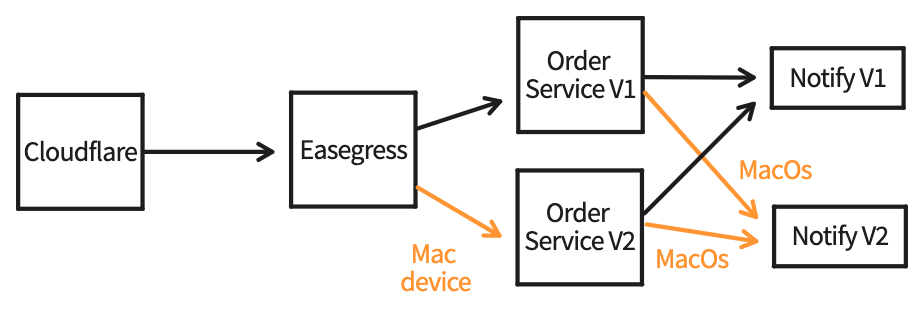
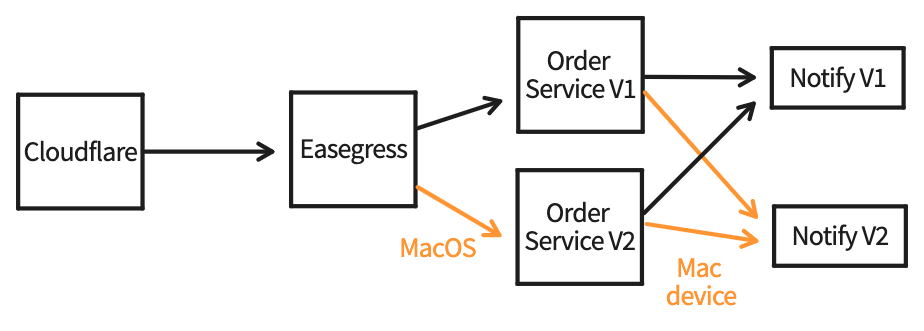
update canary cookbook.

diff --git a/doc/cookbook/canary-release.md b/doc/cookbook/canary-release.md
@@ -37,7 +37,9 @@ A [canary release](https://martinfowler.com/bliki/CanaryRelease.html) is a softw
 
 ![case 1](../imgs/canary-release-case-1.png)
 
-Suppose we run an e-Commerce service, and we recently upgraded our Order Service from version 1 to version 2. To ensure that our users have the best experience, we want to route the users who are accessing our service from Beijing to use the new Order service (version 2).  
+Suppose we run an e-Commerce service, and we recently upgraded our Order Service from version 1 to version 2. To ensure that our users have the best experience, we want to route the users who are accessing our service from Beijing to use the new Order service (version 2).
+
+Download the latest Service code from [canary-case-1](https://github.com/megaease/easegress-canary-example/tree/main/case1)
 
 **1. Traffic tagging**
 
@@ -45,45 +47,31 @@ To determine the geographic location of a user, we can leverage the `CF-IPCity` 
 
 **2. Traffic scheduling rules:**
 
-Save the following YAML code to `ecommerce-service.yaml` and make sure to replace the `servers` configuration with your own. 
+Save the following YAML code to `order-service.yaml` and make sure to replace the `servers` configuration with your own. 
 
 ```yaml
-name: ecommerce-pipeline
+name: order-pipeline
 kind: Pipeline
 flow:
-- filter: buildOrderRequest
-  namespace: order
 - filter: order-service
-  namespace: order
-- filter: buildResponse
 filters:
-- name: buildOrderRequest
-  kind: RequestBuilder
-  template: |
-    url: /order
 - name: order-service
   kind: Proxy
   pools:
   - servers:
-    - url: http://megaease.com/api/v2  # new version
-  - filter:
+    - url: http://0.0.0.0:5002  # new version
+    filter:
       headers:
         cf-ipcity: # Cloudflare geographic location header
           exact: Beijing # the traffic from Beijing should be directed to the new version
-    servers:
-    - url: http://megaease.com/api/v1 # old version
-- name: buildResponse
-  kind: ResponseBuilder
-  template: |
-    statusCode: {{.responses.order.StatusCode}}
-    body: |
-      [{{.responses.notify.Body}}]
+  - servers:
+    - url: http://0.0.0.0:5001  # old version
 ```
 
-Then create the e-Commerce pipeline with the command:
+Then create the order pipeline with the command:
 
 ```bash
-egctl object create -f ecommerce-service.yaml
+egctl object create -f order-service.yaml
 ```
 
 Save below YAML to `ecommerce-server.yaml`.
@@ -91,7 +79,7 @@ Save below YAML to `ecommerce-server.yaml`.
 ```yaml
 kind: HTTPServer
 name: ecommerce-server
-port: 8080
+port: 8888
 https: false
 keepAlive: true
 keepAliveTimeout: 75s
@@ -99,8 +87,10 @@ maxConnection: 10240
 cacheSize: 0
 rules:
   - paths:
-    - pathPrefix: /ecommerce
-      backend: ecommerce-pipeline
+    - pathPrefix: /order
+      backend: order-pipeline
+    - pathPrefix: /notify
+      backend: notify-pipeline
 ```
 
 Then create the HTTP server with command:
@@ -112,11 +102,11 @@ egctl object create -f ecommerce-server.yaml
 Send a request to e-Commerce service:
 
 ```bash
-curl http://127.0.0.1:10080/ecommerce -H "cf-ipcity: Beijing"
-[{"order_id":"5245000", "role_id":"44312", "order_status":1, "order_version": "v2"}]
+curl http://127.0.0.1:8888/order -H "cf-ipcity: Beijing"
+{"order_id":"5245000","role_id":"44312","order_status":1,"order_version":"v2"}
 
-curl http://127.0.0.1:10080/ecommerce -H "cf-ipcity: Shanghai"
-[{"order_id":"5245000", "role_id":"44312", "order_status":1, "order_version": "v1"}]
+curl http://127.0.0.1:8888/order -H "cf-ipcity: Shanghai"
+{"order_id":"5245000","role_id":"44312","order_status":1,"order_version":"v1"}
 ```
 
 ## based on user devices
@@ -124,6 +114,8 @@ curl http://127.0.0.1:10080/ecommerce -H "cf-ipcity: Shanghai"
 ![case 2](../imgs/canary-release-case-2.png)
 
 In real-world scenarios, services are usually interconnected and depend on each other to provide a seamless experience for the customer. In our case, we recently upgraded our Notify Service from version 1 to version 2. To ensure that our users have a holistic experience, we want to route users who are accessing our service from a Mac device to use the new version of our Notify Service (version 2).
+
+Download the latest Service code from [canary-case-2](https://github.com/megaease/easegress-canary-example/tree/main/case2)
 
 **1. Traffic tagging**
 
@@ -145,80 +137,73 @@ Go to the Cloudflare website configuration page and configure _Workers Routes_.
 
 **2. Traffic scheduling rules**
 
-Save the following YAML code to `ecommerce-service.yaml`, and make sure to replace the `servers` configuration with your own.
+Save the following YAML code to `order-service.yaml`, and make sure to replace the `servers` configuration with your own.
 
 ```yaml
-name: ecommerce-pipeline
+name: order-pipeline
 kind: Pipeline
 flow:
-- filter: buildOrderRequest
-  namespace: order
 - filter: order-service
-  namespace: order
-- filter: buildNotifyRequest
-  namespace: notify
-- filter: notify-service
-  namespace: notify
-- filter: buildResponse
 filters:
-- name: buildOrderRequest
-  kind: RequestBuilder
-  template: |
-    url: /order
 - name: order-service
   kind: Proxy
   pools:
   - servers:
-    - url: http://megaease.com/api/v2
-- name: buildNotifyRequest
-  kind: RequestBuilder  # use order response as notify request body
-  template: |
-    url: /notify
-    method: POST
-    body: |
-      {"order": "{{.responses.order.Body | jsonEscape}}"}
+    - url: http://0.0.0.0:5003 # order service
+```
+
+Then update the order pipeline with the command:
+
+```bash
+egctl object update -f order-service.yaml
+```
+
+Save the following YAML code to `notify-service.yaml`, and make sure to replace the `servers` configuration with your own.
+
+```yaml
+name: notify-pipeline
+kind: Pipeline
+flow:
+- filter: notify-service
+filters:
 - name: notify-service
   kind: Proxy
   pools:
   - servers:
-    - url: http://megaease.com/api/v1
-  - filter:
+    - url: http://0.0.0.0:5002  # new version
+    filter:
       headers:
-        x-ua-device: # Cloudflare's user device header
-          exact: Mac # the traffic from Mac should be directed to the new version
-    servers:
-    - url: http://megaease.com/api/v2
-- name: buildResponse
-  kind: ResponseBuilder
-  template: |
-    statusCode: {{.responses.notify.StatusCode}}
-    body: |
-      [{{.responses.notify.Body}}]
+        x-ua-device:
+          exact: Mac # the traffic from Mac device should be directed to the new version
+  - servers:
+    - url: http://0.0.0.0:5001  # old version
 ```
 
-Then update the e-Commerce pipeline with the command:
+Then create the notify pipeline with the command:
 
 ```bash
-egctl object update -f ecommerce-service.yaml
+egctl object create -f notify-service.yaml
 ```
 
 Send a request to e-Commerce service:
 
 ```bash
 curl http://127.0.0.1:10080/ecommerce -H "user-agent:Mozilla/5.0 (Linux; Android 4.4.2; GT-I9505 Build/KOT49H) AppleWebKit/537.36 (KHTML, like Gecko) Chrome/37.0.2062.117 Mobile Safari/537.36"
-[{"order_id":"5245000", "role_id":"44312", "notify_status":1, "notify_version": "v1"}]
+{"order_id":"5245000","role_id":"44312","order_status":1,"order_version":"v2","notify_status":1,"notify_version":"v1"}
 
 curl http://127.0.0.1:10080/ecommerce -H "user-agent:Mozilla/5.0 (Macintosh; Intel Mac OS X 10_15_7) AppleWebKit/537.36 (KHTML, like Gecko) Chrome/110.0.0.0 Safari/537.36"
-[{"order_id":"5245000", "role_id":"44312", "notify_status":1, "notify_version": "v2"}]
+{"order_id":"5245000","role_id":"44312","order_status":1,"order_version":"v2","notify_status":1,"notify_version":"v2"}
 ```
 
 ## based on user OS
 
 ![case 3](../imgs/canary-release-case-3.png)
 
-Suppose both the Order service and Notify service have been upgraded simultaneously. The user who is accessing our service from a Mac device should be routed to the new version of the Order service (v2), and from MacOS should be routed to the new version of the Notify service (v2).  
+Suppose both the Order service and Notify service have been upgraded simultaneously. The user who is accessing our service from a MacOS should be routed to the new version of the Order service (v2), and from Mac device should be routed to the new version of the Notify service (v2).  
 
 You may think Cloudflare's Workers is not suitable for your needs, there is another easy way to parse `User-Agent` with Easegress's WASM.
+
+Download the latest Service code from [canary-case-3](https://github.com/megaease/easegress-canary-example/tree/main/case3)
 
 **1. Traffic tagging**
 
@@ -234,81 +219,45 @@ Go to the `easegress-rust-uaparser/binary` directory and just use the `easegress
 
 **2. Traffic scheduling rules**
 
-Save the following YAML code to `ecommerce-service.yaml`, and make sure to replace the `servers` configuration and wasm file path with your own.
+Save the following YAML code to `order-service.yaml`, and make sure to replace the `servers` configuration and wasm file path with your own.
 
 ```yaml
-name: ecommerce-pipeline
+name: order-pipeline
 kind: Pipeline
 flow:
 - filter: wasm
-- filter: buildOrderRequest
-  namespace: order
 - filter: order-service
-  namespace: order
-- filter: buildNotifyRequest
-  namespace: notify
-- filter: notify-service
-  namespace: notify
-- filter: buildResponse
 filters:
 - name: wasm # parse user-agent, add `x-ua-device` and `x-ua-os` headers to the HTTP request.
   kind: WasmHost
   maxConcurrency: 2
   code: /<Path>/easegress.wasm  # easegress.wasm file path
   timeout: 100ms
-- name: buildOrderRequest
-  kind: RequestBuilder
-  template: |
-    url: /order
 - name: order-service
   kind: Proxy
   pools:
   - servers:
-    - url: http://megaease.com/api/v1
-  - filter:
+    - url: http://0.0.0.0:5002 # new version of order service
+    filter:
       headers:
-        x-ua-device: # Easegress's user device header
-          exact: Mac # the traffic from Mac should be directed to the new version
-    servers:
-    - url: http://megaease.com/api/v2
-- name: buildNotifyRequest
-  kind: RequestBuilder  # use order response as notify request body
-  template: |
-    url: /notify
-    method: POST
-    body: |
-      {"order": "{{.responses.order.Body | jsonEscape}}"}
-- name: notify-service
-  kind: Proxy
-  pools:
-  - servers:
-    - url: http://megaease.com/api/v1
-  - filter:
-      headers:
-        x-ua-os: # Easegress's user os header
+        x-ua-os: # Easegress's user OS header
           exact: MacOS # the traffic from MacOS should be directed to the new version
-    servers:
-    - url: http://megaease.com/api/v2
-- name: buildResponse
-  kind: ResponseBuilder
-  template: |
-    statusCode: {{.responses.notify.StatusCode}}
-    body: |
-      [{{.responses.notify.Body}}]
+  - servers:
+    - url: http://0.0.0.0:5001 # old version of order service
 ```
 
-Then update the e-Commerce pipeline with the command:
+Then update the order pipeline with the command:
 
 ```bash
-egctl object update -f ecommerce-service.yaml
+egctl object update -f order-service.yaml
 ```
 
 Send a request to e-Commerce service:
 
 ```bash
 curl http://127.0.0.1:10080/ecommerce -H "user-agent:Mozilla/5.0 (Linux; Android 4.4.2; GT-I9505 Build/KOT49H) AppleWebKit/537.36 (KHTML, like Gecko) Chrome/37.0.2062.117 Mobile Safari/537.36"
-[{"order_id":"5245000", "role_id":"44312", "notify_status":1, "order_version": "v1", "notify_version": "v1"}]
+{"order_id":"5245000","role_id":"44312","order_status":1,"order_version":"v1","notify_status":1,"notify_version":"v1"}
 
 curl http://127.0.0.1:10080/ecommerce -H "user-agent:Mozilla/5.0 (Macintosh; Intel Mac OS X 10_15_7) AppleWebKit/537.36 (KHTML, like Gecko) Chrome/110.0.0.0 Safari/537.36"
-[{"order_id":"5245000", "role_id":"44312", "notify_status":1, "order_version": "v2", "notify_version": "v2"}]
+{"order_id":"5245000","role_id":"44312","order_status":1,"order_version":"v2","notify_status":1,"notify_version":"v2"}
 ```

diff --git a/README.md b/README.md
@@ -111,6 +111,7 @@ The following examples show how to use Easegress for different scenarios.
 
 - [API Aggregation](./doc/cookbook/api-aggregation.md) - Aggregating many APIs into a single API.
 - [Cluster Deployment](./doc/cookbook/multi-node-cluster.md) - How to deploy multiple Easegress cluster nodes.
+- [Canary Release](./doc/cookbook/canary-release.md) - How to do canary release with Easegress.
 - [Distributed Tracing](./doc/cookbook/distributed-tracing.md) - How to do APM tracing  - Zipkin.
 - [FaaS](./doc/cookbook/faas.md) - Supporting Knative FaaS integration
 - [Flash Sale](./doc/cookbook/flash-sale.md) - How to do high concurrent promotion sales with Easegress

diff --git a/doc/README.md b/doc/README.md
@@ -17,6 +17,7 @@ This is a cookbook that lists a number of useful and practical examples on how t
 
 - [API Aggregator](./cookbook/api-aggregation.md) - Aggregating many APIs into a single API.
 - [Cluster Deployment](./cookbook/multi-node-cluster.md) - How to deploy multiple Easegress cluster nodes.
+- [Canary Release](./cookbook/canary-release.md) - How to do canary release with Easegress.
 - [Distributed Tracing](./cookbook/distributed-tracing.md) - How to do APM tracing  - Zipkin.
 - [FaaS](./cookbook/faas.md) - Supporting Knative FaaS integration
 - [Flash Sale](./cookbook/flash-sale.md) - How to do high concurrent promotion sales with Easegress

diff --git a/README.zh-CN.md b/README.zh-CN.md
@@ -110,6 +110,7 @@
 
 - [API 聚合](./doc/cookbook/api-aggregation.md) - 将多个 API 聚合为一个。
 - [Easegress 集群化部署](./doc/cookbook/multi-node-cluster.md) - Easegress 如何进行集群化多点部署。
+- [灰度部署](./doc/cookbook/canary-release.md) - 如何使用 Easegress 进行灰度部署。
 - [分布式调用链](./doc/cookbook/distributed-tracing.md) - 如何使用 Zipkin 进行 APM 追踪。
 - [函数即服务 FaaS](./doc/cookbook/faas.md) - 支持 Knative FaaS 集成。
 - [高并发秒杀](./doc/cookbook/flash-sale.md) - 如何使用 Easegress 进行高并发的秒杀活动。

diff --git a/doc/reference/filters.md b/doc/reference/filters.md
@@ -140,16 +140,16 @@ name: proxy-example-2
 pools:
 - servers:
   - url: http://127.0.0.1:9095
-- filter:
+  filter:
     headers:
       X-Candidate:
         exact: candidate
-  servers:
+- servers:
   - url: http://127.0.0.1:9096
-- filter:
+  filter:
     permil: 400 # between 0 and 1000
     policy: random
-  servers:
+- servers:
   - url: http://127.0.0.1:9097
 ```
 
